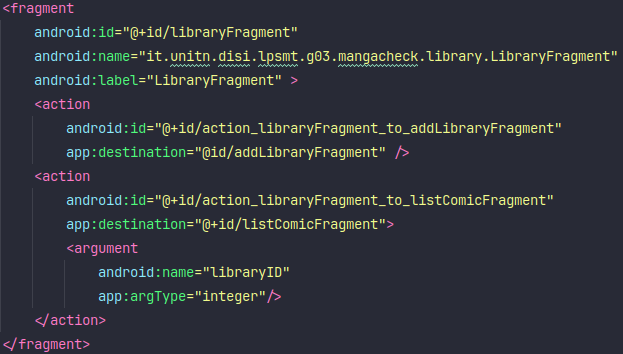
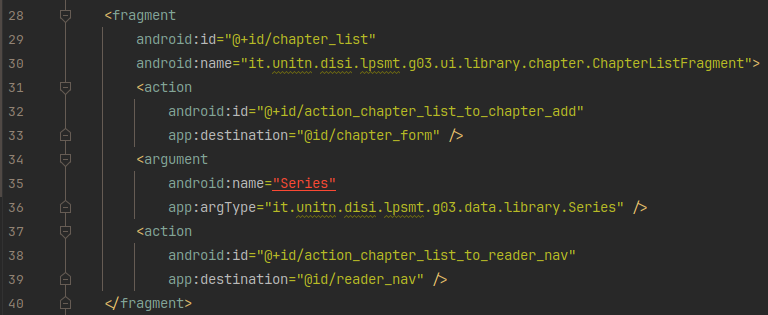
Modified report an `README.md`
Modified Wireframe-e-navigazione, Implementazione and Analisi-critica.
Added sample Query code and a sample of Safe Args

diff --git a/docs/Assignment-3/snippet-codice/Query.kt b/docs/Assignment-3/snippet-codice/Query.kt
@@ -1,0 +1,74 @@
+ /**
+ * RecyclerView that manage the query result as a list of entry with only the
+ * name
+ */
+class QueryAdapter
+(private val model
+ : SeriesSearchModel, private val resultAction
+ : () -> Unit)
+    : RecyclerView.Adapter<QueryAdapter.ViewHolder> ()
+{
+  private var dataSet = List<SearchByNameQuery.Medium ?> (0){ null }
+
+  data class ViewHolder
+  (val view
+   : SeriesSearchSelectorBinding)
+      : RecyclerView.ViewHolder (view.root)
+
+            fun updateData (newData
+                            : List<SearchByNameQuery.Medium
+                                   ?>){ val prevSize = dataSet.size val newSize
+                                        = newData.size dataSet
+                                        = newData notifyItemRangeChanged (
+                                            0, max (prevSize, newSize)) }
+
+        override fun onCreateViewHolder (parent
+                                         : ViewGroup, viewType
+                                         : Int)
+      : ViewHolder{ val view
+                    = SeriesSearchSelectorBinding.inflate (LayoutInflater.from (
+                        parent.context)) return ViewHolder (view) }
+
+        override fun
+        getItemCount ()
+      : Int{ return dataSet.size }
+
+        override fun onBindViewHolder (holder
+                                       : ViewHolder, position
+                                       : Int)
+  {
+    val view = holder.view
+
+            val englishTitle = dataSet[position]?.title?.english
+            val romajiTitle = dataSet[position]?.title?.romaji
+            val nativeTitle = dataSet[position]?.title?.native
+
+            val title = englishTitle ?: romajiTitle ?: nativeTitle
+            val description = dataSet[position]?.description
+            val chapters = dataSet[position]?.chapters
+            val imageUrl = dataSet[position]?.coverImage?.large
+
+            view.containerMangaName.text = title
+
+            Glide.with(view.root).load(imageUrl).circleCrop().into(view.mangaCover)
+
+            view.containerMangaName.isClickable = false
+
+            setContainerClickListener(view, title, description, chapters, imageUrl)
+  }
+
+        private fun setContainerClickListener(view: SeriesSearchSelectorBinding,
+            title: String?,
+            description: String?,
+            chapters: Int?,
+            imageUrl: String?)
+        {
+          view.container.setOnClickListener
+          {
+            model.title.value = title model.description.value
+                = description model.chapters.value
+                = chapters model.imageUri.value
+                = Uri.parse (imageUrl) resultAction ()
+          }
+        }
+}

diff --git a/docs/Assignment-3/chapters/Implementazione.tex b/docs/Assignment-3/chapters/Implementazione.tex
@@ -21,14 +21,11 @@ Nella definizione di Chapter abbiamo usato l'attributo \texttt{unique} per poter
 
 \section{Richieste API}
 
-Le richieste API sono state gestite con il sopracitato package \emph{ktor}, una parte della formattazione delle rispose alle API è stata gestita lato server per ridurre il codice da scrivere nell'applicazione e non sprecare rallentare troppo l'app.\\
-Per gestire le risposte al meglio abbiamo di deciso di gestire lato client come delle matrici di stringhe.\\
-Nel caso sottostante riceviamo i dati come una stringa che poi viene separata grazie ad una regex ed in seguito inserita in una matrice $[n][2]$ in cui $[n][0]$ contiene l'id del manga richiesto mentre $[n][1]$ il nome.
+Le richieste API sono state gestite con il sopracitato package \emph{Apollo}, per garantire una fruibilità maggiore tutte le richieste vengono gestite in un Thread separato rieptto a quello della UI.\\
+Per ricevere i dati abbiamo usato dei \hyperref{https://developer.android.com/reference/kotlin/androidx/lifecycle/LiveData}{LiveData}, quindi una volta che i dati sono effetivamente presenti vengono mostrati a UI, le immagini vengono gestite grazie a \emph{Glide}.\\
+Le entry così generate vengono inserite in una RecyclerView con la quale l'utente andrà ad interagire.
 
-\begin{center}
-  \includegraphics[scale=0.5]{queryNames.png}
-  \captionof{figure}{Query dei vari nomi possibili per il manga}
-\end{center}
+\lstinputlisting[language=Kotlin, caption={Parte del codice usato per fare le Query}]{snippet-codice/Query.kt}
 
 \section{Uso di Safe Args}
 
@@ -43,12 +40,11 @@ Questo vincolo è stato possibile grazie all'utilizzo del plug in \href{https://
 \section{Backup Del DB}
 
 Utilizzando le \href{https://developer.android.com/guide/topics/data/autobackup}{funzionalità native} di Android abbiamo implementato un sistema di Backup che permette all'utente di spostare la reading list senza bisogno di esportare alcun file.\\
-%Sfruttato la funzionalità di cache abbiamo salvato le immagini di copertina dei comic in library e reding list, ed anche una versione decompressa del file \emph{cbz} da leggere.
 
 \section{Reader}
 
 I \emph{cbz} vengono prima decompressi in cache, cosi da non occupare troppa RAM, una volta fatto ciò, i file vengono converti durante l'esecuzione in Bitmap ridimensionate per coprire più superficie possibile.\\
-Successivamente le Bitmap vengono associate ad una ImageView che si occupa di mostrarle all'utente.\\
-Nel fragment del reader abbiamo implementato anche un bottone di ricerca per navigare più agevolmente all'interno del comic e due bottoni per muoversi tra le tavole.
+Successivamente le Bitmap vengono gestite sempre da \emph{Glide}, questo ci assicura un'esecuzione asincrona e minimizza il codice da sceivere.\\
+Abbiamo anche implementato delle variabili per tenere conto della pagina alla quale è arrivato l'utente, queste variabili sono servite anche per la produzione della barra di progresso nella selezione dei capitoli.
 
 \end{document}

diff --git a/docs/Assignment-3/chapters/Analisi-critica.tex b/docs/Assignment-3/chapters/Analisi-critica.tex
@@ -6,11 +6,10 @@
 \chapter{Analisi critica dei limiti dell’applicazione}
 
 Per quanto strutturata e testata l'applicazione presenta margini di miglioramento.\\
-Primo tra tutti lo stile grafico, che non fornisce un'identità propria e purtroppo non è ben integrabile con il nuovo paradigma di colorazione~\cite{matDesColor} basato sul wallpaper introdotto in Material Design 3.\\
-Per questioni di tempo e semplicità non ci è stato possibile implementare il log in dell'utente e abbiamo dovuto optare per una soluzione semplificata anche se comunque efficiente.\\
-Il sistema di importing della reading list utilizzato, allo stato attuale, è da intendersi solo come un sistema per spostare i dati da un'installazione all'altra, infatti comporta una sovrascrittura completa della precedente reading list.\\
-Neppure il database ed il sistema di query non è perfetto, può infatti capitare che la descrizione di un qualche manga sia vuota e venga quindi restituita la seguente stringa \verb+...)];+.\\
-L'applicazione presenta anche alcuni margini di miglioramento:
+Primo tra tutti lo stile grafico, che non fornisce un'identità propria e purtroppo non è ben integrabile con il nuovo paradigma di colorazione~\cite{matDesColor} basato sul wallpaper, introdotto in Material Design 3.\\
+Su suggerimento dei docenti non abbiamo implementato la creazione e la gestione di un account.\\
+Il salvare solo l'URI dei file \emph{.cbz} potrebbe portare alla perdita di dati, ma abbiamo preferito questo rispetto all'``esplosione'' dello spazio richiesto dall'app.\\
+Per quanto riguarda il reader e la disponibiltà di titoli:
 \begin{itemize}
   \item L'implementazione del pintch to zoom nella sezione di reading del manga.
   \item L'attivazione di un opt in per visualizzare anche fumetti per adulti.

diff --git a/docs/Assignment-3/chapters/Wireframe-e-navigazione.tex b/docs/Assignment-3/chapters/Wireframe-e-navigazione.tex
@@ -162,7 +162,12 @@ Se uno dei parametri non rispetta ciò che il server si aspetta il campo divente
 
 Dopo la prima presentazione abbiamo optato per un design più semplice e pulito che cercasse di spiegare all'utente cosa sta facendo.\\
 Su consiglio dei docenti abbiamo modificato il flow dell'applicazione, le maggiori criticità della precedente versione dell'applicazione erano nella parte di UX.\\
-Abbiamo pertanto deciso di scrivere nel report  sia il precedente design/flow sia quello nuovo, per quanto riguarda le altre sezioni del report abbiamo optato per riportare solo l'ultima versione.
+Abbiamo pertanto deciso di scrivere nel report  sia il precedente design/flow sia quello nuovo, per quanto riguarda le altre sezioni del report abbiamo optato per riportare solo l'ultima versione.\\
+Abbiamo inoltre apportatto delle modifiche alla nomenclatura usata nell'applicazione:
+\begin{itemize}
+  \item \textbf{Series}: sono gli oggetti che prima venivano Comic
+  \item \textbf{Tracker}: il fragment che precedentemente era inteso come \hyperref[sec:reading_list]{Reading list}.
+\end{itemize}
 
 \subsection{Library Home page}\label{sec:home_redesign}
 
@@ -222,6 +227,7 @@ Dopo aver premuto sul risultato cercato si aprirà un form per la conferma dei d
 %\end{center}
 
 Premendo su un capitolo l'utente verrà portato al reader, l'utente si potrà muovere tra le pagine con degli swipe a sinistra e destra.\\
+Il Reader è stato implementato in modo tale che riprenda dall'ultima pagina che l'utente ha visualizzato.
 Premendo sull'immagine appariranno una top bar e una bottom bar, nella bottom bar l'utente potrà trascinare il dito per scorrere velocemente tra le pagine.
 
 \end{document}

diff --git a/docs/README.md b/docs/README.md
@@ -1,3 +1,3 @@
 # [Assignment 1](./Assignment-1/Assignment-1-LPSMT.md)
 # [Assignment 2](./Assignment-2/Assignment-2-LPSMT.md)
-# [Assignment 3]()
+# [Assignment 3](./Assignment-2/Assignment-3-LPSMT.md)
